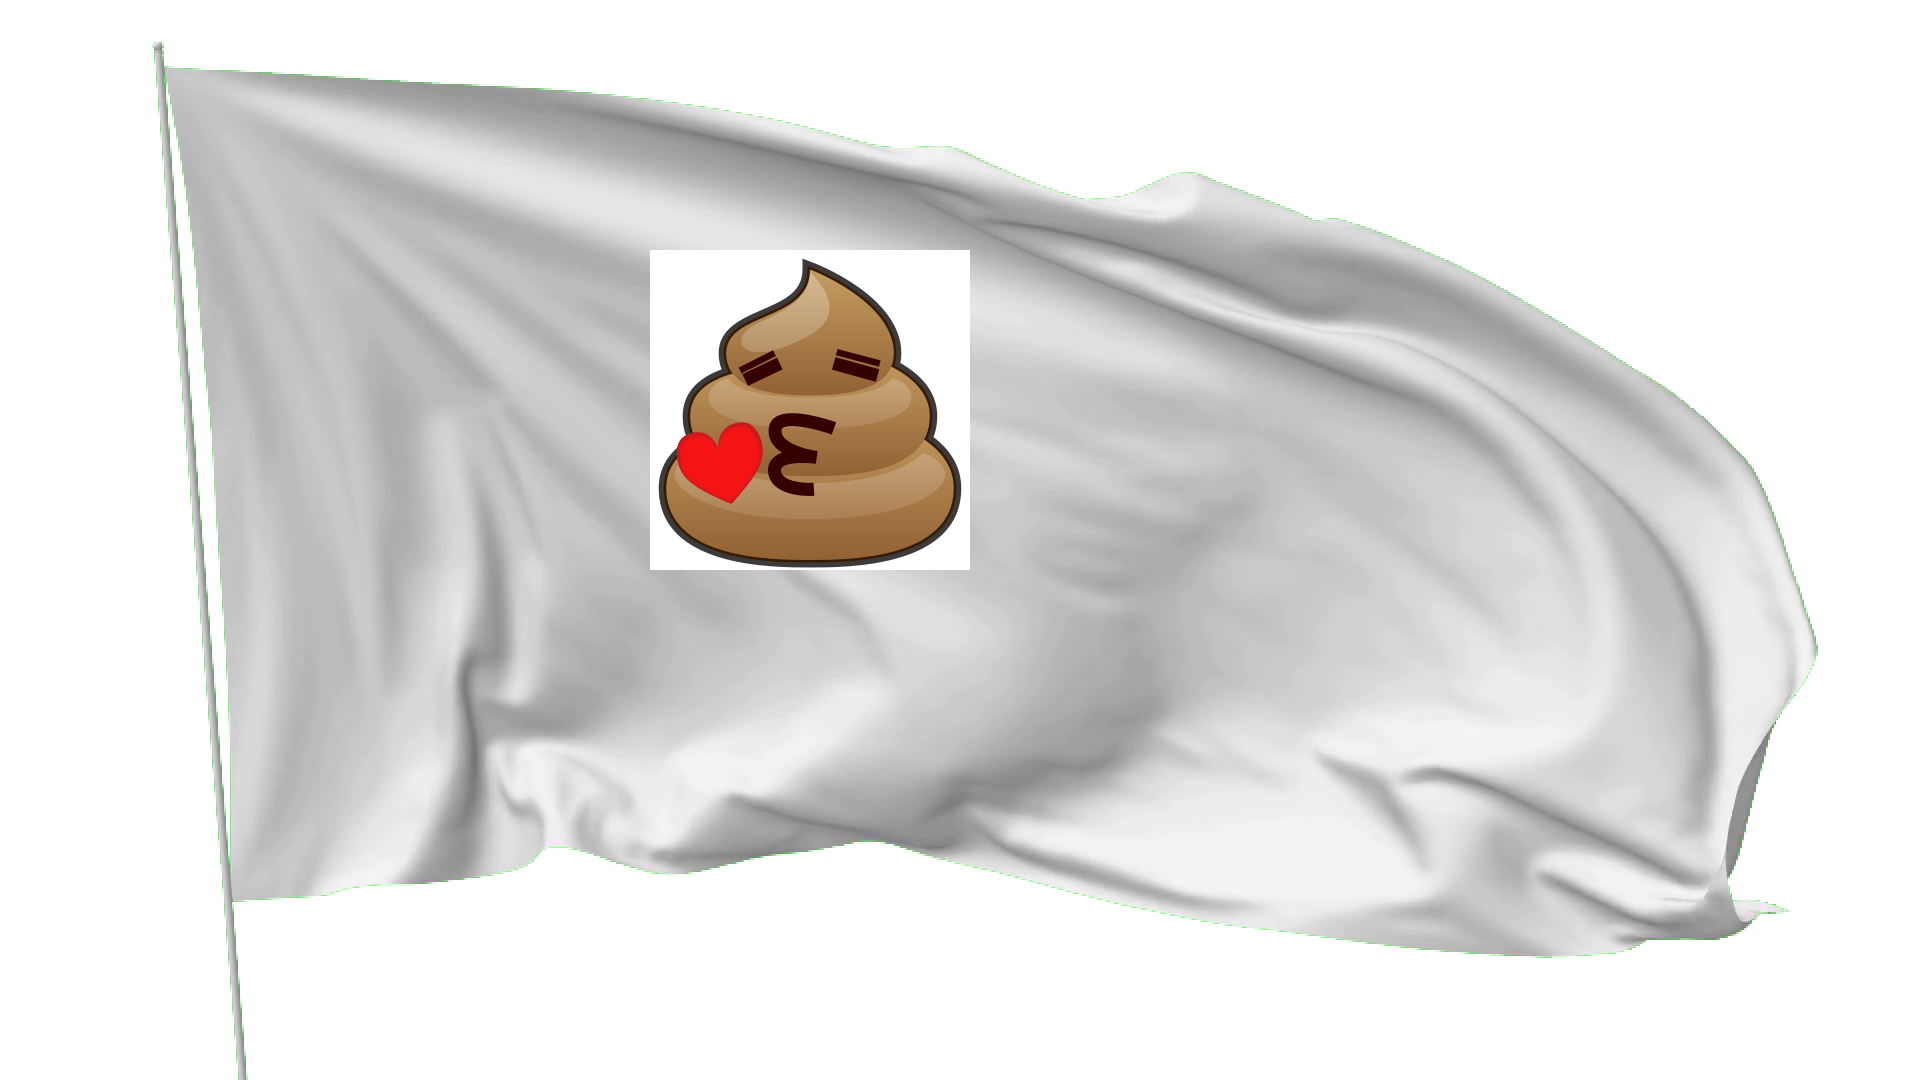
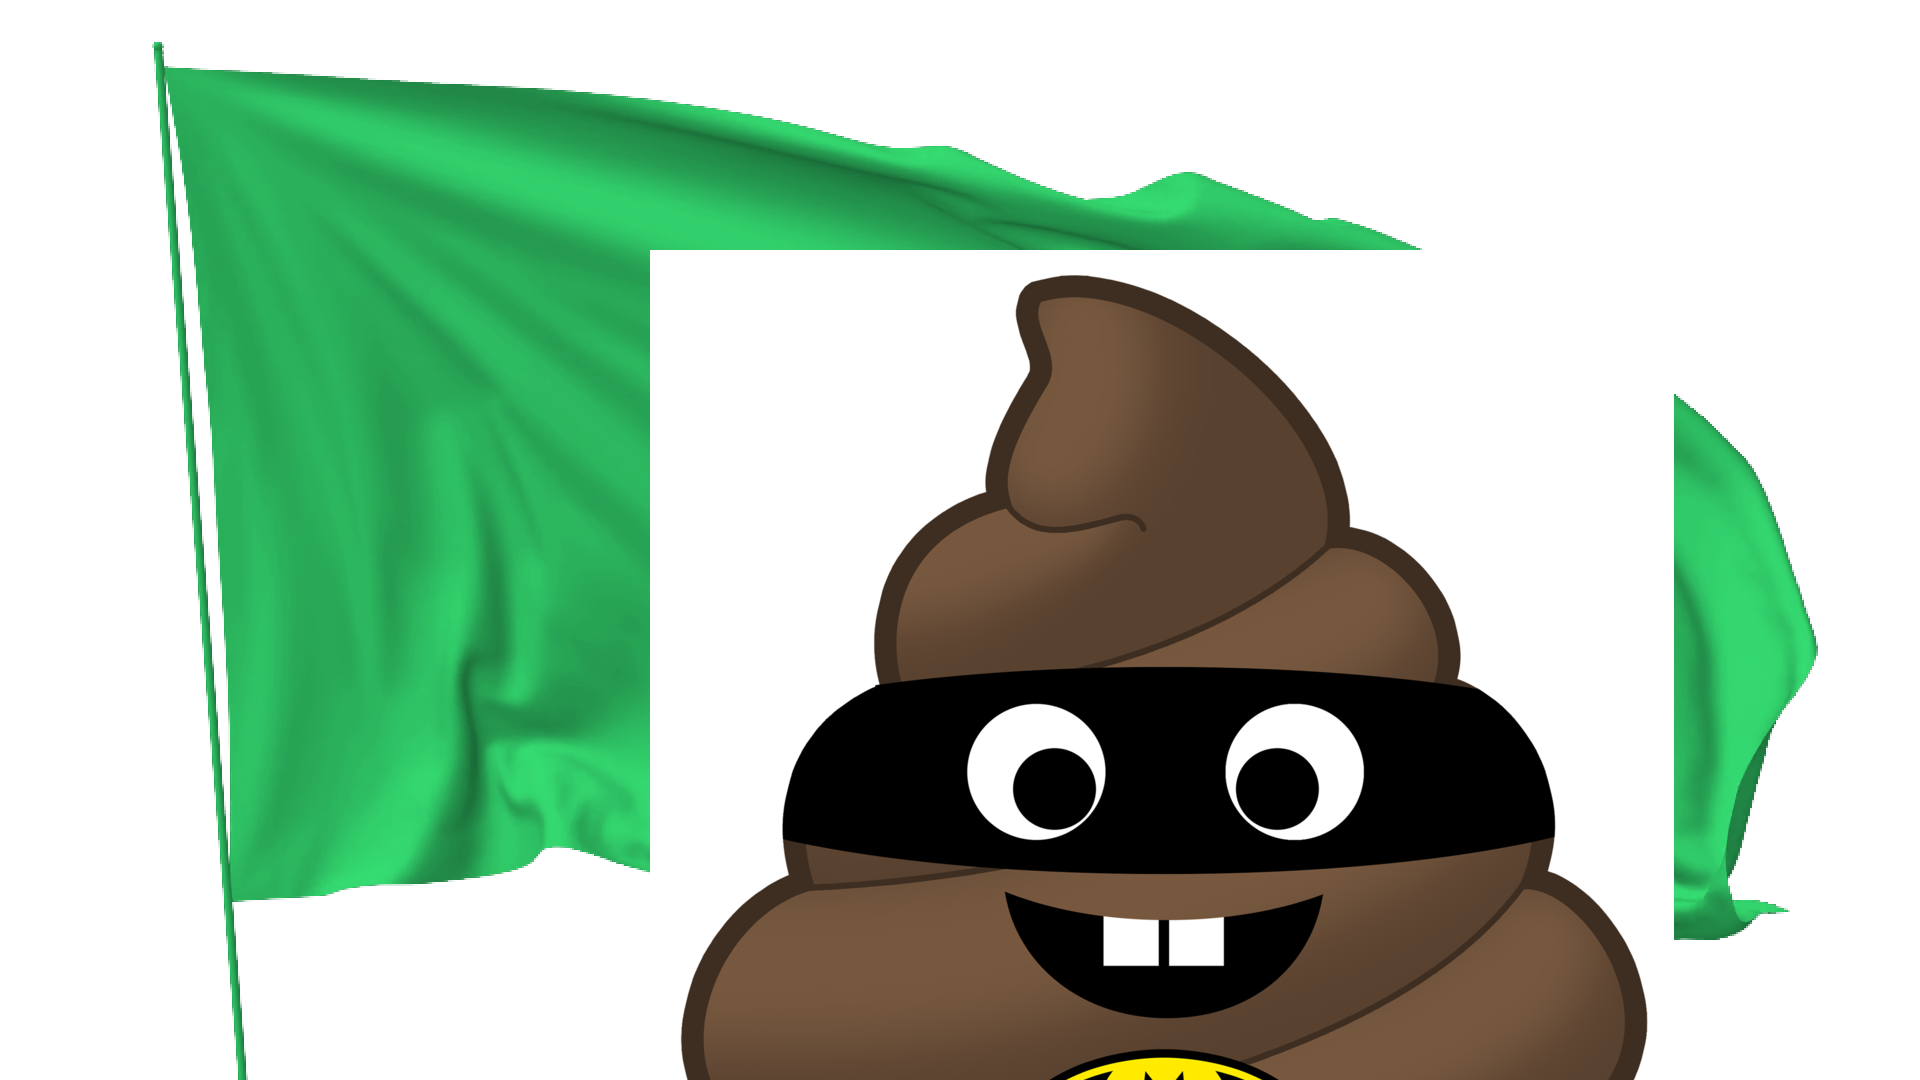
Updates to $flag_gen

diff --git a/cogs/image_commands.py b/cogs/image_commands.py
@@ -2,7 +2,9 @@ from discord.ext import commands
 import discord
 import function_helper
 import random
+import PIL
 from PIL import Image
+from PIL import ImageOps
 from os import listdir
 from os.path import isfile, join
 
@@ -267,24 +269,43 @@ class ImageCommands(commands.Cog, name="Image Commands"):
         embed.set_footer(text="Referee calls " + huskerbot_footer)
         await ctx.send(embed=embed)
 
-    # TODO Make this command generate better flags.
     @commands.command()
     async def flag_gen(self, ctx):
-        created_flag = "media/saved/{}created_flag.png".format(str(ctx.author))
-        blank_flag = "media/blank_flag.png"
-        poop_files = [f for f in listdir("media/") if isfile(join("media/", f))]
-        for p in poop_files:
-            if not "poop" in p.lower():
-                poop_files.remove(p)
-        random.shuffle(poop_files)
+        async def tint_image(src, color="#FFFFFF"):
+            src.load()
+            r, g, b, alpha = src.split()
+            gray = ImageOps.grayscale(src)
+            result = ImageOps.colorize(gray, (0, 0, 0, 0), color)
+            result.putalpha(alpha)
+            return result
 
-        img_poop = Image.open("media/{}".format(poop_files[0]))
-        img_poop.resize((200, 200), Image.BILINEAR)
-        img_blank_flag = Image.open(blank_flag)
-        img_blank_flag.paste(img_poop, (650, 250))
-        img_blank_flag.save(created_flag)
+        try:
+            # Directory strings
+            emojis_dir = "media/emojis"
+            blank_flag = "media/raw/blank_flag.png"
+            created_flag = "media/saved/{}_created_flag.png".format(str(ctx.author))
 
-        await ctx.send(file=discord.File(created_flag))
+            # Get list of emojis, shuffle the list, pick random emoji, and create an Image.
+            poop_files = [f for f in listdir(emojis_dir) if isfile(join(emojis_dir, f))]
+            random.shuffle(poop_files)
+            print("Poop: {}".format(poop_files[0]))
+            img_poop_raw = Image.open("{}/{}".format(emojis_dir, poop_files[0]))
+            sizes = img_poop_raw.width * 3, img_poop_raw.height * 3
+            img_poop = img_poop_raw.resize(size=sizes, resample=PIL.Image.NEAREST)
+
+            # Turn the blank flag into a random color.
+            img_flag = Image.open(blank_flag)
+            random_color = "#{:06x}".format(random.randint(0, 0xFFFFFF))
+            tinted_flag = await tint_image(img_flag, random_color)
+
+            new_img = Image.new("RGBA", (1920, 1080), (0, 0, 0, 0))
+            new_img.paste(tinted_flag, ((new_img.width - tinted_flag.width) // 2, (new_img.height - tinted_flag.height) // 2))
+            new_img.paste(img_poop, ((new_img.width - img_poop.width) // 2, (new_img.height - img_poop.height) // 2), mask=img_poop)
+            new_img.save(created_flag)
+
+            await ctx.send(file=discord.File(created_flag))
+        except:
+            await ctx.send("Error occured trying to use `{}` mask. Try again!".format(poop_files[0]))
     # End image commands
 
 

diff --git a/main.py b/main.py
@@ -417,16 +417,16 @@ async def on_command_completion(ctx):
         await ctx.send(not_authed)
 
 
-@client.event
-async def on_command_error(ctx, error):
-    #output_msg="Whoa there {}! Something went wrong. Please review `$help` for a list of all available commands.\n\nCommand sent: {}\nError: `{}`.".format(ctx.message.author.mention, ctx.message, error)
-    output_msg ="Whoa there, {}! Something went doesn't look quite right. Please review `$help` for further assistance. Contact my creators if the problem continues.\n" \
-                "```Message ID: {}\n" \
-                "Channel: {} / {}\n" \
-                "Author: {}\n" \
-                "Content: {}\n" \
-                "Error: {}```".format(ctx.message.author.mention, ctx.message.id, ctx.message.channel.name, ctx.message.channel.id, ctx.message.author, ctx.message.content, error)
-    await ctx.send(output_msg)
+# @client.event
+# async def on_command_error(ctx, error):
+#     #output_msg="Whoa there {}! Something went wrong. Please review `$help` for a list of all available commands.\n\nCommand sent: {}\nError: `{}`.".format(ctx.message.author.mention, ctx.message, error)
+#     output_msg ="Whoa there, {}! Something went doesn't look quite right. Please review `$help` for further assistance. Contact my creators if the problem continues.\n" \
+#                 "```Message ID: {}\n" \
+#                 "Channel: {} / {}\n" \
+#                 "Author: {}\n" \
+#                 "Content: {}\n" \
+#                 "Error: {}```".format(ctx.message.author.mention, ctx.message.id, ctx.message.channel.name, ctx.message.channel.id, ctx.message.author, ctx.message.content, error)
+#     await ctx.send(output_msg)
 # End bot (client) events
 
 # Admin command

diff --git a/cogs/stat_bot.py b/cogs/stat_bot.py
@@ -147,7 +147,6 @@ class StatBot(commands.Cog, name="CFB Stats"):
 
         await ctx.send(boxscore)
 
-
     @commands.command(aliases=["sched",])
     async def schedule(self, ctx, year=2019):
         """ Returns the Nebraska Huskers football schedule. """
